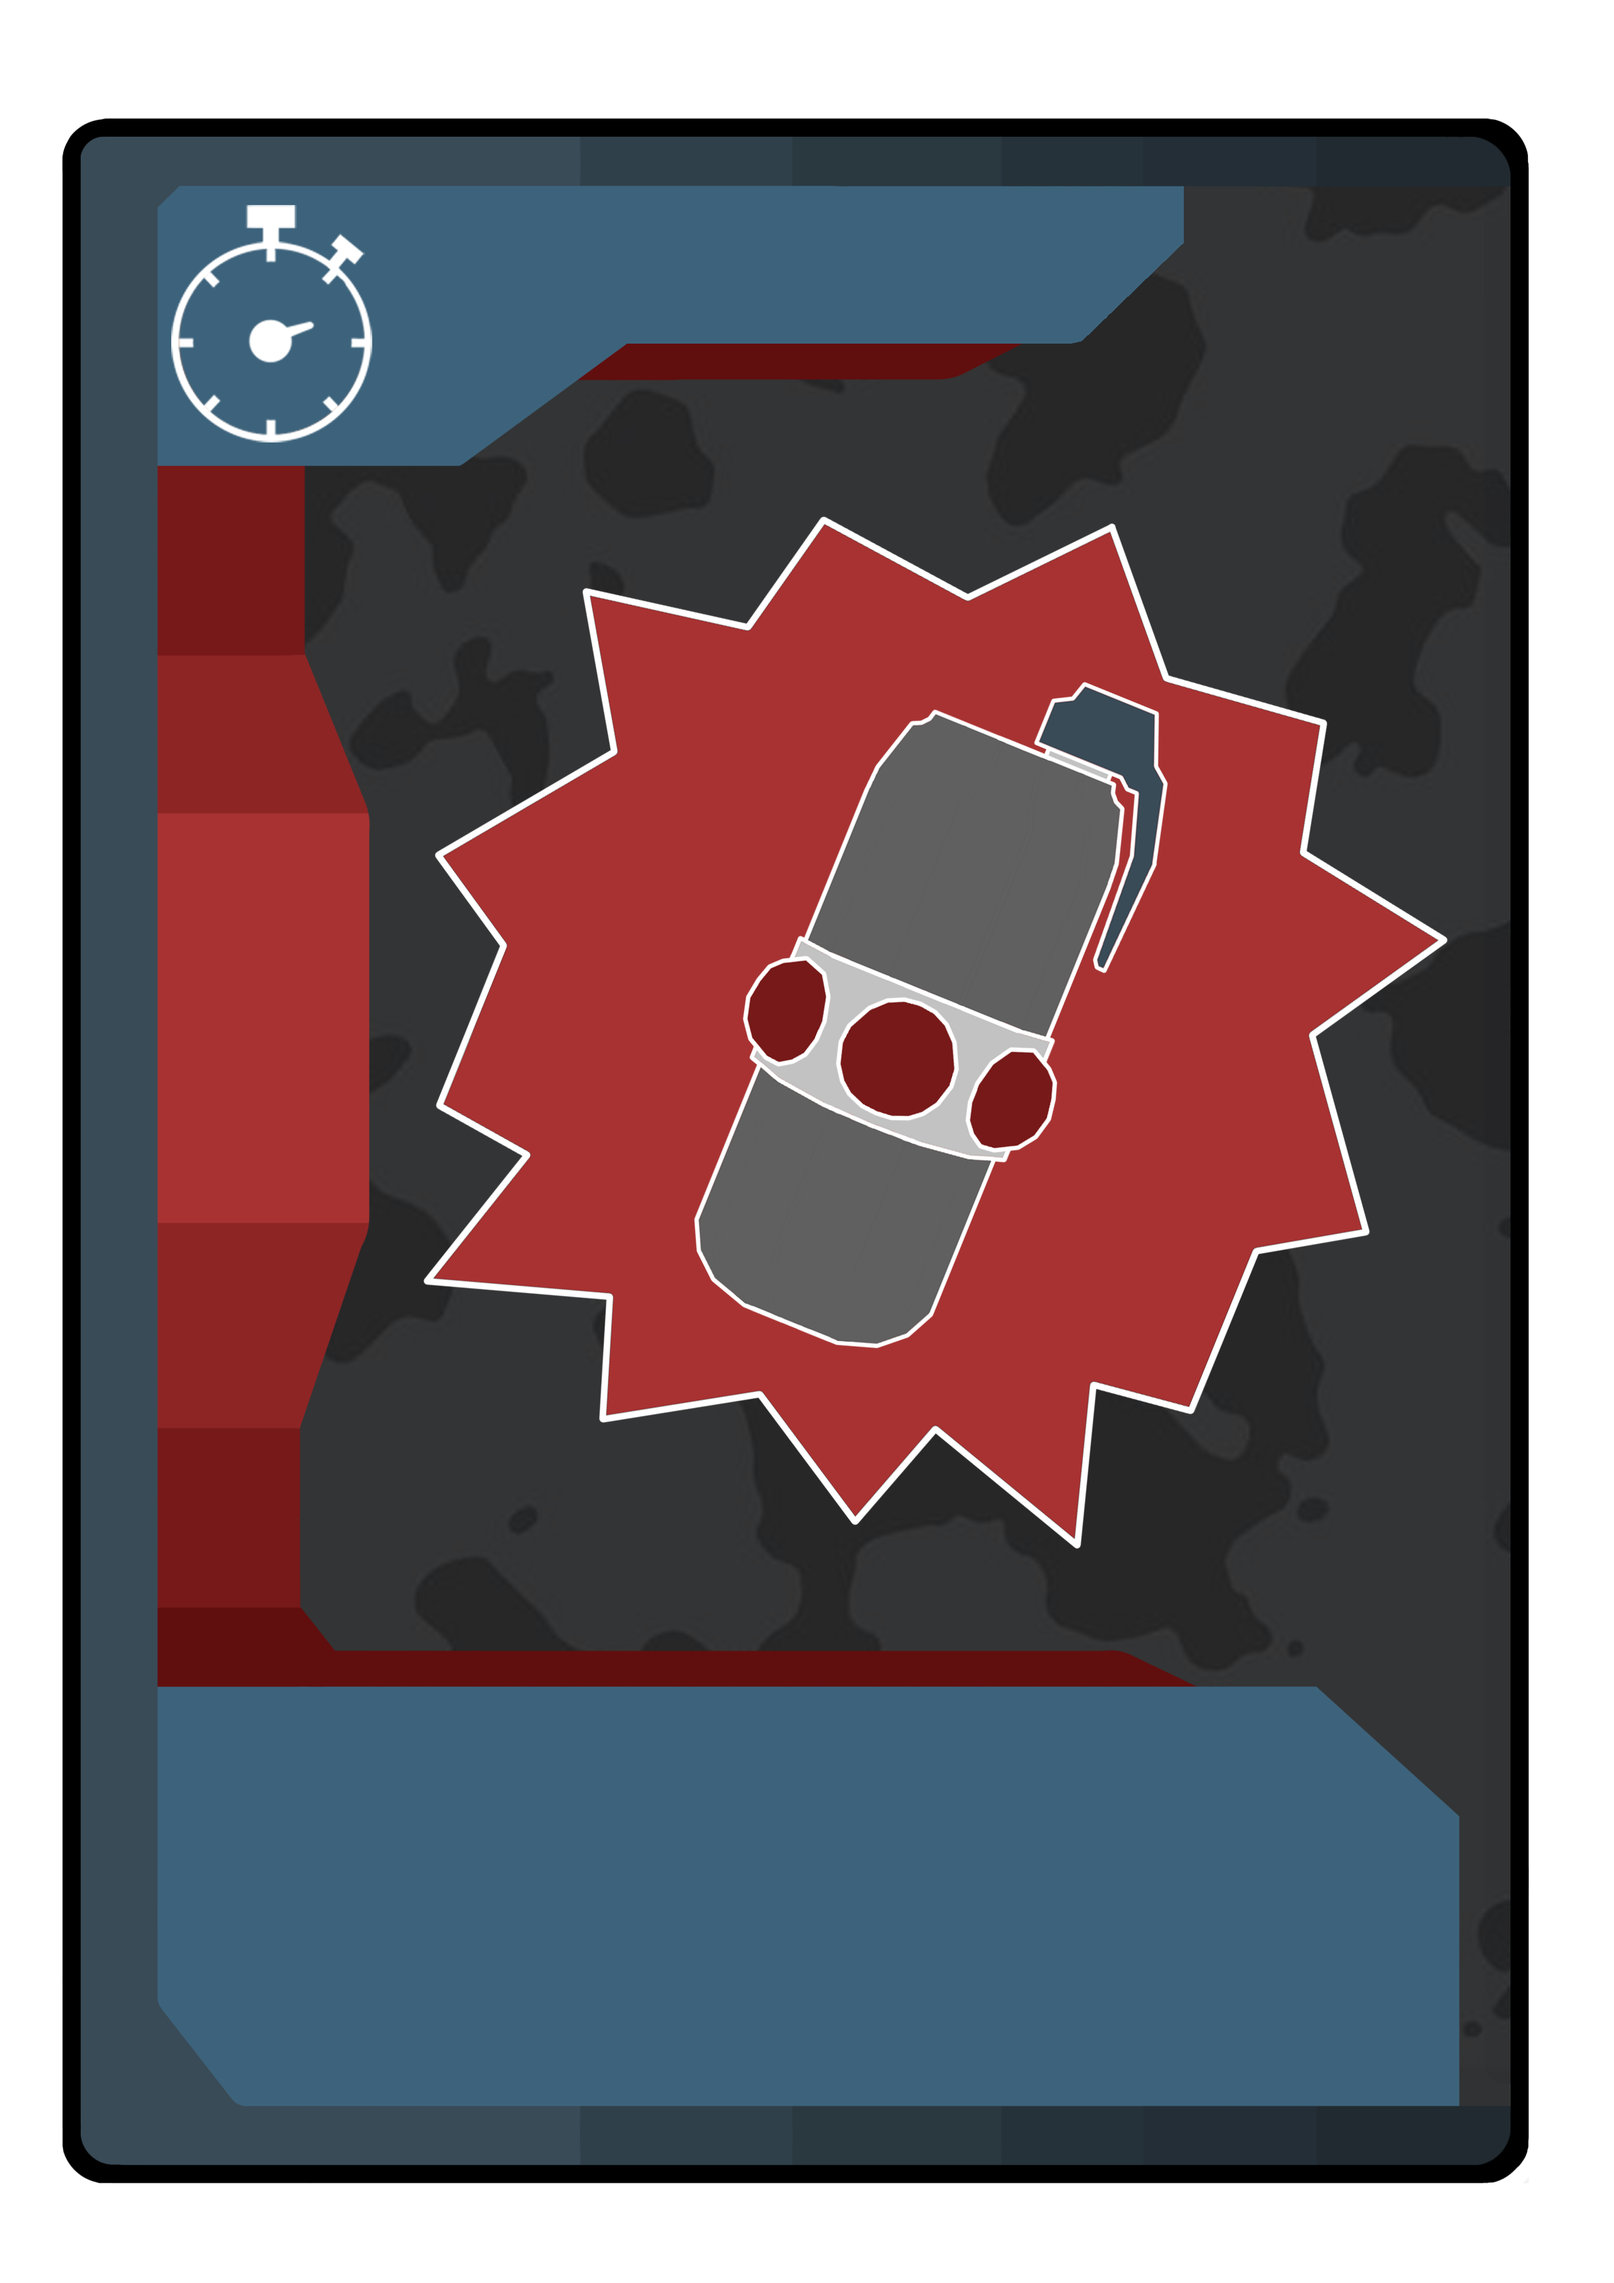
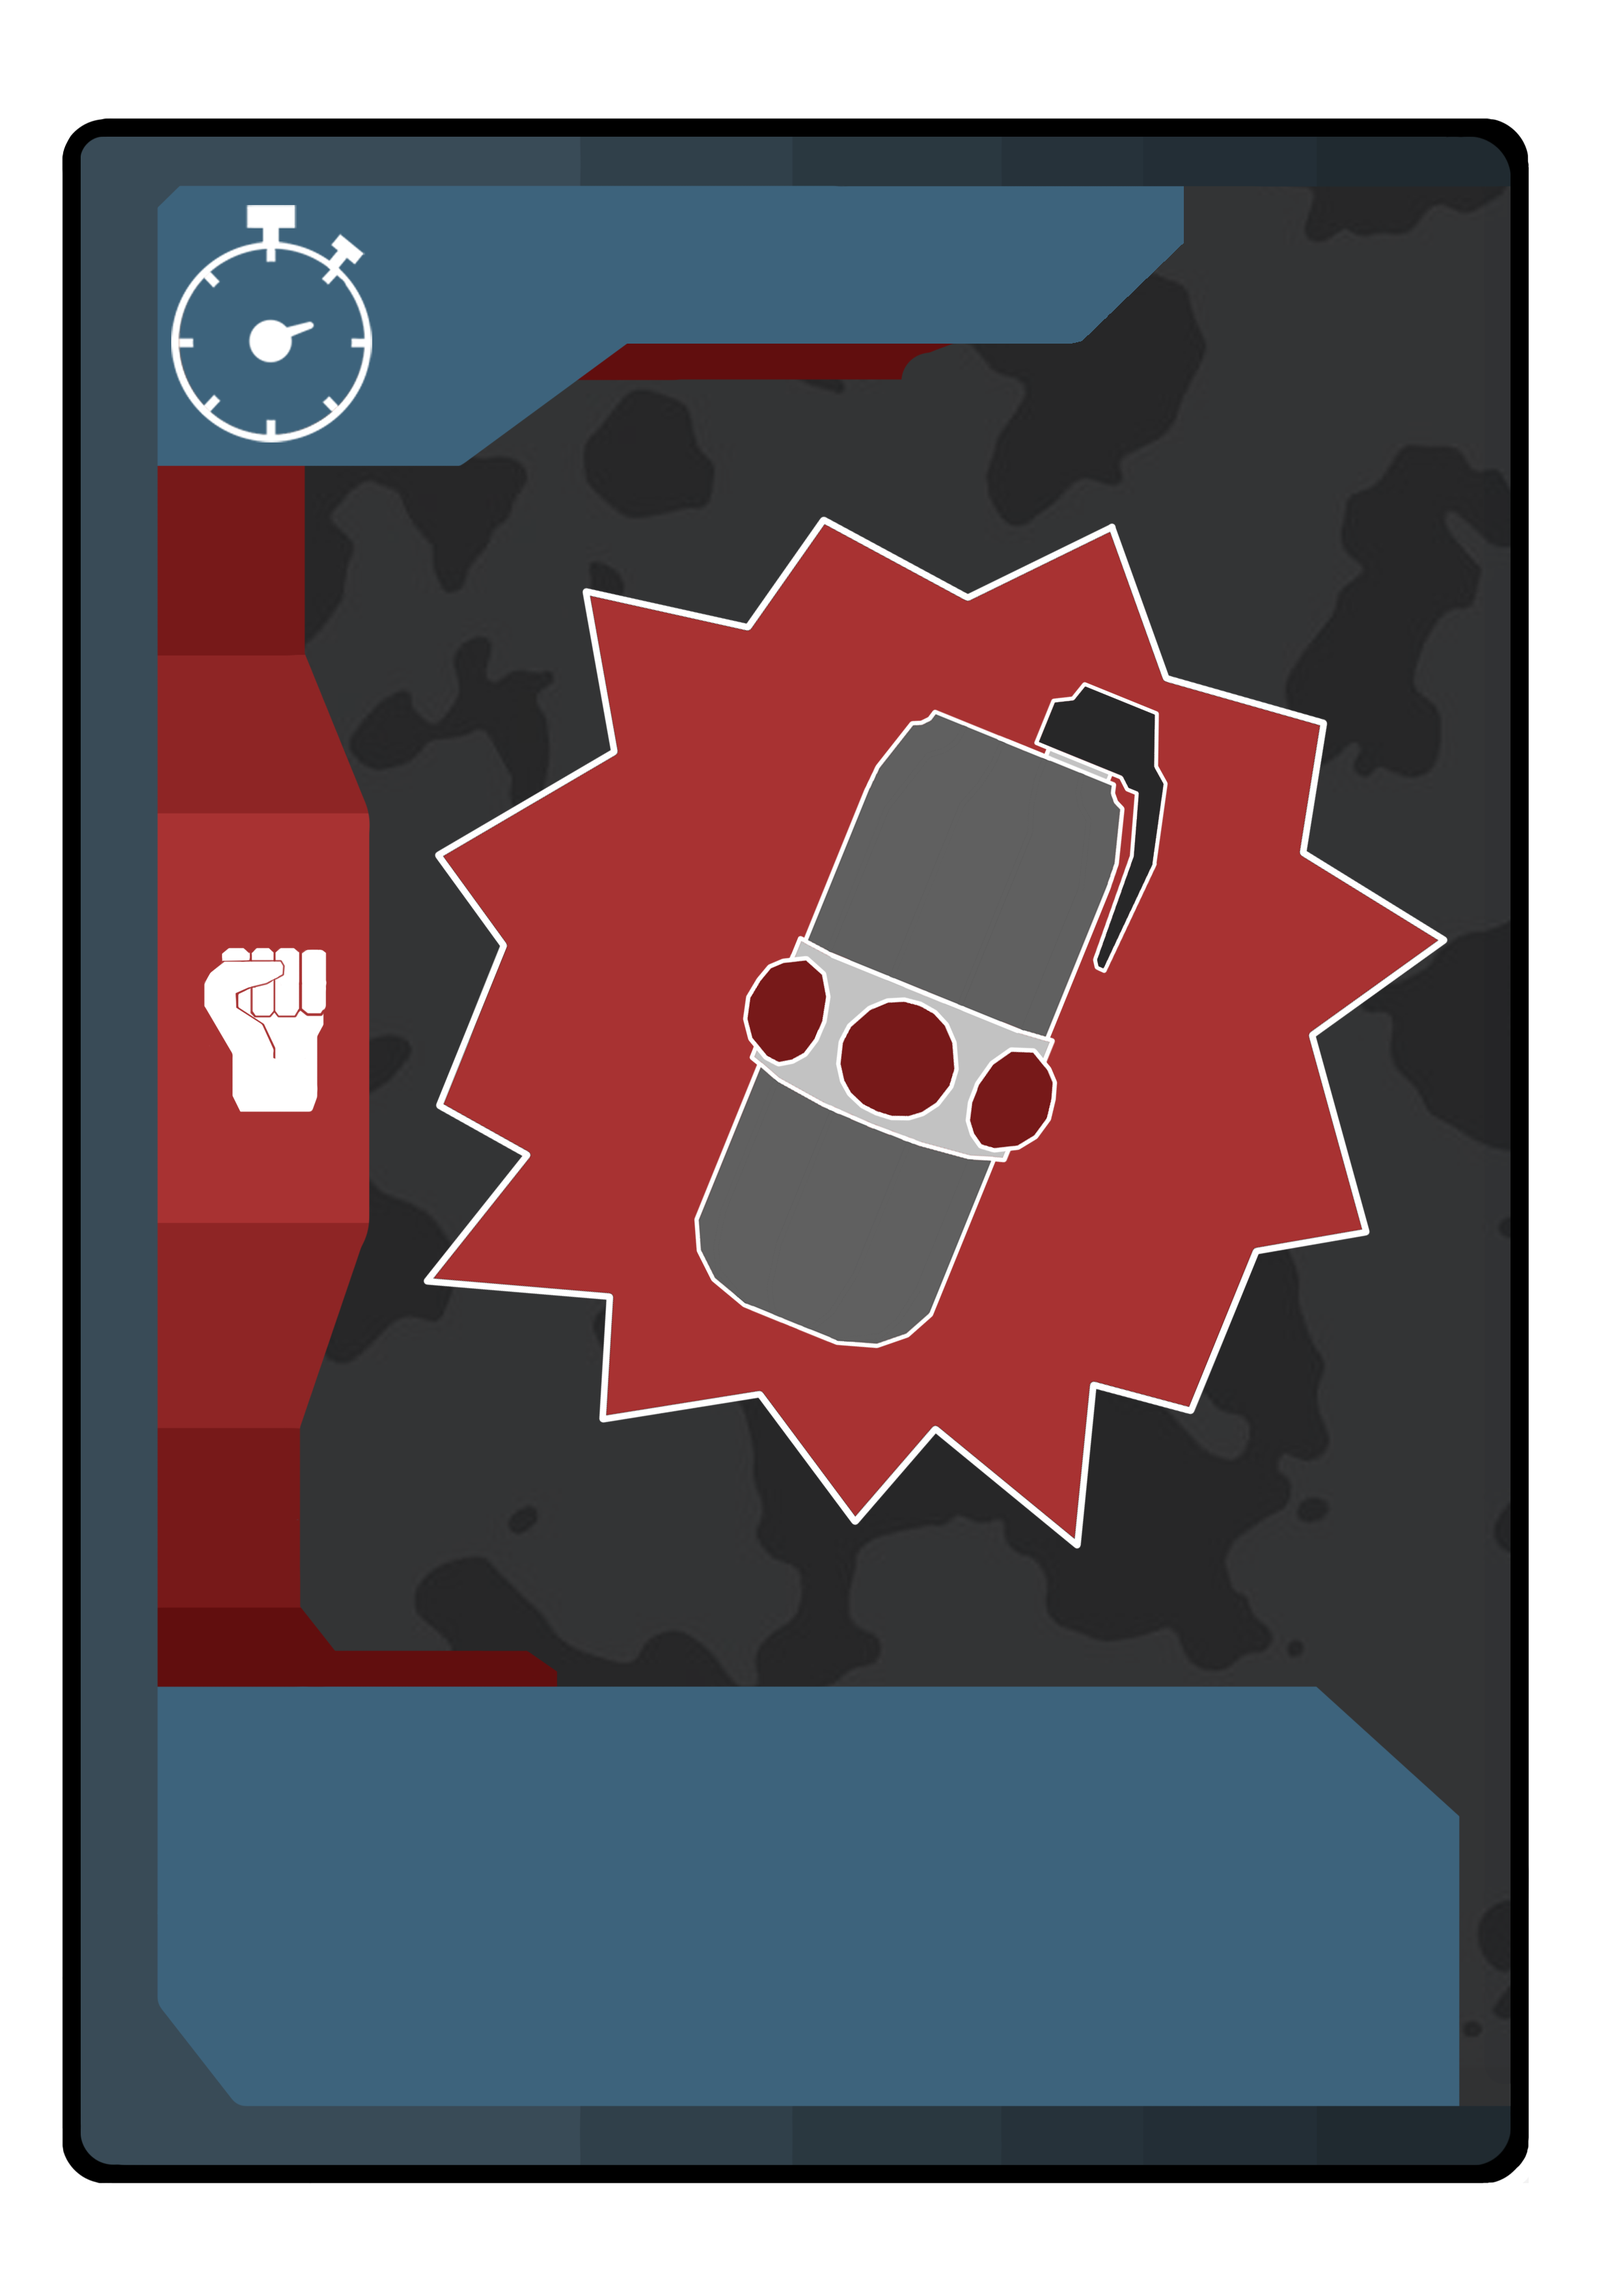
cards sprite updated

diff --git a/Assets/GameObjects/Cards/SimpleShot/SimpleShot.cs b/Assets/GameObjects/Cards/SimpleShot/SimpleShot.cs
@@ -5,63 +5,79 @@ using UnityEngine;
 
 public class SimpleShot : Card
 {
-    List<GameObject> _selectableTiles = new();
+    Vector3 _direction;
+    Vector3 _startingPosition;
+    int _damage = 10;
 
-    // Start is called before the first frame update
-    void Awake()
+    private void Awake()
     {
-        int[] stats = new int[1] { 13 };
-        base.Init(1.5f, 4, 50, stats, $"Take aim and perform a powerfull shot that deals {stats[0]} dmg.");
+        // Call the Card Initialization method with arguments as following (duration, maxLvl, goldValue, Stats)
+        int[] stats = new int[0];
+        /* stats fill there */
+        base.Init(1, 2, 60, stats);
 
-        while (PlayerManager.AddState("shot" + _id.ToString(), EnterAimState, ExitState) == false) _id++;
 
-        if (TryGetComponent(out _selectableArea) == false)
-            _selectableArea = gameObject.AddComponent<SelectableArea>();
+        // Add a unique state + id to play the correct card and  not the first of its kind
+        while (PlayerManager.AddState("SimpleShot" + _id.ToString(), EnterState, ExitState) == false) _id++;
+
+        if (gameObject.TryGetComponent(out _rotationArrow) == false)
+            _rotationArrow = gameObject.AddComponent<RotationSelectArrow>();
     }
 
-    public override void Effect()
+    void EnterState()
     {
-        if (_target == null) return;
-        base.Effect();
-        _target.GetComponent<Enemy>().TakeDamage(_stats[0]);
-    }
-
-    void EnterAimState()
-    {
-        // Sets up the settings for the area
-        _selectableArea.SetGroundColor(new Color(0.3f, 0.3f, 0.3f));
-        _selectableArea.SetSelectableEntites(false, false, true, false);
-        _selectableTiles = _selectableArea.FindSelectableArea(GI._PManFetcher()._virtualPos, 4);
+        _rotationArrow.SetArrow(true);
 
         PlayerManager manager = GI._PManFetcher();
-        manager.SetLeftClickTo(() => {
-            if (_selectableArea.CastLeftClick(out GameObject obj))
-            {
-                print("You got hit by a smooth " + obj.name);
-                if (obj.TryGetComponent<Enemy>(out _) == false)
-                {
-                    throw new MissingComponentException($"The object {obj.name} ({obj.GetType()}) the card aimed at does not have a Enemy script.");
-                }
-                _target = obj;
-                base.PlayCard();
-                GI._PManFetcher().SetToDefault();
-            }
-            else
-                print("R u ok?");
-        });
-        manager.SetRightClickTo(() => { ExitState(); GI._PManFetcher().SetToDefault(); });
-        manager.SetHoverTo(() => { });
-        GI.UpdateCursors("Bow", (byte)(GI.CursorRestriction.S_ENEMIES));
-        GI.UpdateCursorsInverted("Cross", (byte)(GI.CursorRestriction.S_ENEMIES));
+        manager.SetLeftClickTo(LeftClick);
+        manager.SetRightClickTo(() => { ExitState(); GameObject.Find("Player").GetComponent<PlayerManager>().SetToDefault(); });
+        manager.SetHoverTo(DisplayRange);
+        GI.UpdateCursorsInverted("Bow", (byte)(GI.CursorRestriction.S_TILES));
+    }
+
+    void LeftClick()
+    {
+        PlayerManager manager = GI._PManFetcher();
+        manager.SetToDefault();
+
+        if (manager._lastHit.transform == null) return;
+
+        _direction = Vector3.Normalize(manager._lastHit.point - manager._virtualPos);
+        _direction.y = 0;
+        _startingPosition = manager._virtualPos;
+
+        base.PlayCard();
     }
 
     void ExitState()
     {
-        _selectableArea.ResetSelectable();
+        _rotationArrow.SetArrow(false);
+        ClearPath();
+    }
+
+    void DisplayRange()
+    {
+
+    }
+
+    public override void Effect()
+    {
+        GameObject bullet = Instantiate((GameObject)Resources.Load("Bullet"));
+
+        bullet.GetComponent<Bullet>().SetDirection(_direction);
+        _startingPosition.y += 1.5f;
+        bullet.GetComponent<Bullet>().SetInitialValues(_startingPosition, 10, _damage);
+
+        base.Effect();
     }
 
     public override void PlayCard()
     {
-        GI._PManFetcher().SetToState("shot" + _id.ToString());
+        GI._PManFetcher().SetToState("SimpleShot" + _id.ToString());
+    }
+
+    public override void OnUpgrade()
+    {
+        base.OnUpgrade();
     }
 }
